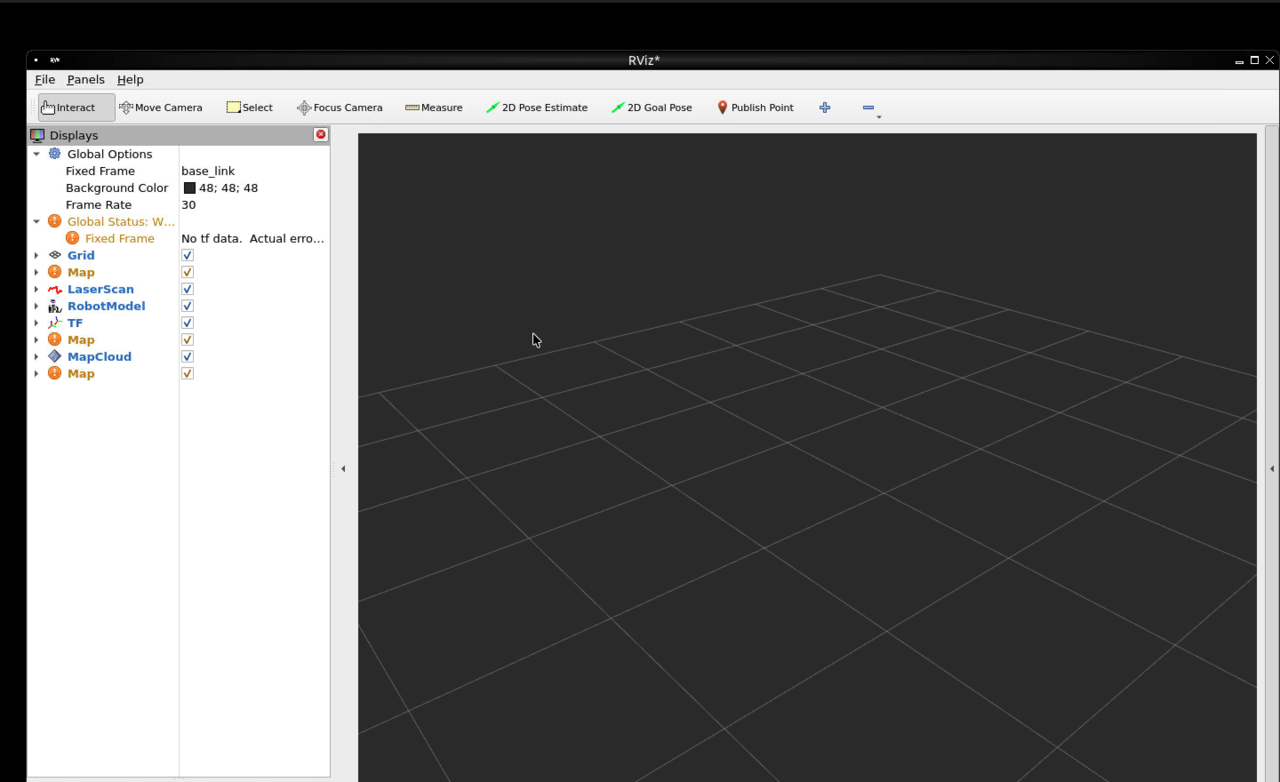
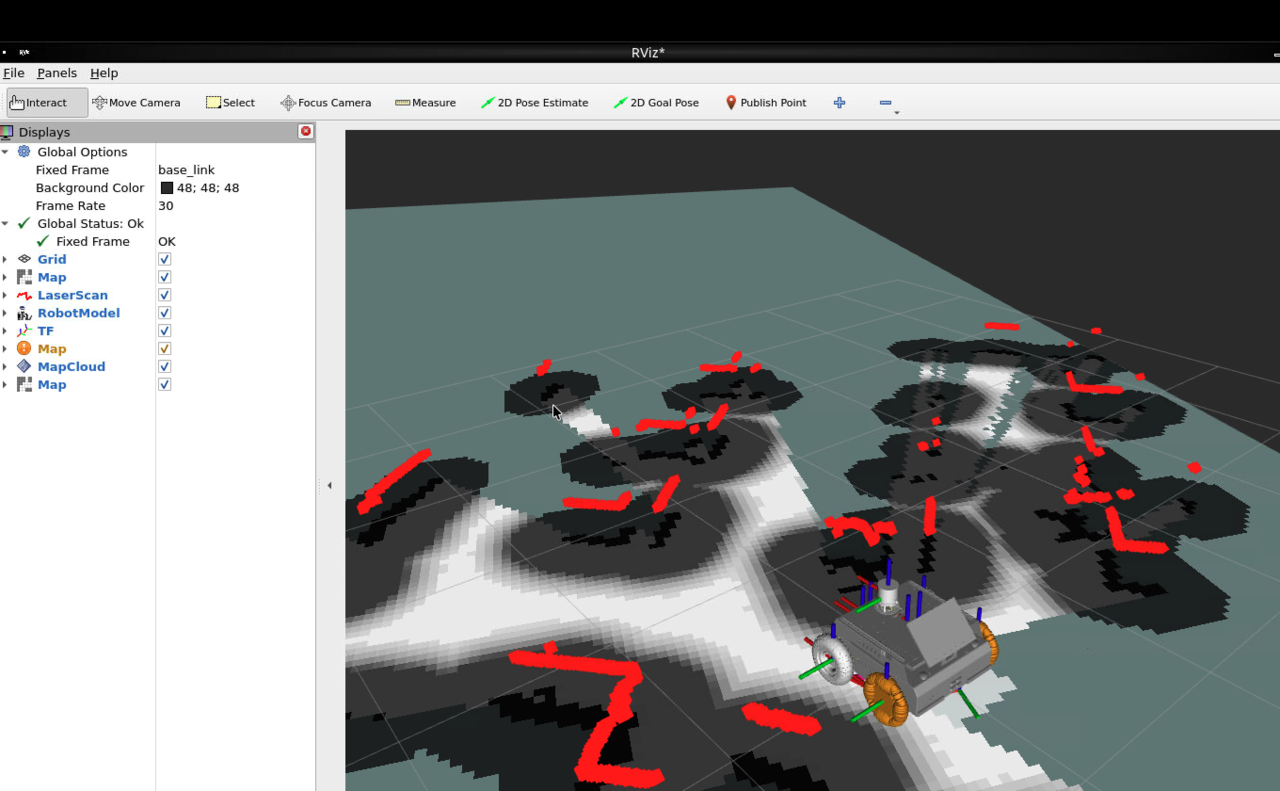
docs(readme): refine language switch and screenshots

diff --git a/README.md b/README.md
@@ -1,13 +1,274 @@
-# vnc-ros
+# vnc-ros | Jetson noVNC ROS 2 远程桌面
 
-<p align="center">
-  <a href="README.zh-CN.md"><img src="https://img.shields.io/badge/中文-打开文档-blue?style=for-the-badge" alt="中文"></a>
-  <a href="README.en.md"><img src="https://img.shields.io/badge/English-Open%20Docs-green?style=for-the-badge" alt="English"></a>
+<p align="left">
+  <a href="README.md"><img src="https://img.shields.io/badge/切换语言-简体中文-blue" alt="简体中文"></a>
+  <a href="README.en.md"><img src="https://img.shields.io/badge/Switch-English-blue" alt="English"></a>
 </p>
 
-<p align="center">
-  Jetson noVNC ROS 2 Desktop
-</p>
+`vnc-ros` 可以让用户在 **macOS、Windows、Linux** 的浏览器里查看和操作远程 Jetson 上的 ROS 2 图形工具，例如 `rviz2`、`rqt`、`rqt_graph`、`rqt_image_view` 和图形终端。
 
-![noVNC connect screen](docs/images/novnc-connect.png)
-![RViz2 in browser](docs/images/rviz2-browser.png)
+图形程序实际运行在 Jetson 上，本地电脑只接收 noVNC 网页画面，因此不需要 SSH X11 转发，也不需要在本地安装 ROS 2、RViz、rqt、Docker、XQuartz 或 VNC 客户端。
+
+![noVNC 连接页面](docs/images/novnc-connect.png)
+
+![浏览器中的 RViz2](docs/images/rviz2-browser.png)
+
+## 适合解决什么问题
+
+- 在 Mac Apple Silicon、Windows 或 Linux 电脑上通过浏览器查看 Jetson 的 RViz2、rqt 等 ROS 图形界面，避免 X11 转发卡顿。
+- 让使用者无需配置本地 ROS 环境，也能快速查看机器人状态、topic、tf、地图、点云等。
+- 通过 SSH 隧道访问 noVNC，默认不把 Jetson 的 noVNC 端口暴露给局域网。
+
+## 工作方式
+
+Jetson 上启动一个轻量虚拟桌面：
+
+- `Xvfb` 提供虚拟显示器
+- `fluxbox` 提供窗口管理器
+- `x11vnc` 把虚拟桌面变成 VNC
+- `websockify` / noVNC 把 VNC 变成浏览器页面
+- `rviz2`、`rqt` 等程序在 Jetson 本机运行
+
+默认安全模式下，noVNC 只监听 Jetson 的 `127.0.0.1`。本地电脑通过 SSH 隧道访问：
+
+```text
+本地浏览器 -> localhost:18080 -> SSH 隧道 -> Jetson 127.0.0.1:<NOVNC_PORT>
+```
+
+## Jetson 端要求
+
+- Ubuntu，并已安装 ROS 2，通常是 Ubuntu 22.04 + ROS 2 Humble
+- 已开启 SSH
+- 当前用户可以执行 `sudo apt-get`
+- 如果机器人有自定义消息或 launch 文件，需要知道工作区的 `install/setup.bash` 绝对路径
+
+## 本地电脑要求
+
+macOS / Linux / Windows 均可使用。
+
+本地电脑只需要：
+
+- 浏览器
+- `ssh` 命令
+- 能通过网络访问 Jetson
+
+Windows 用户可以使用 PowerShell 或 Windows Terminal。若系统没有 `ssh`，需要启用 OpenSSH Client。
+
+## 快速上手
+
+### 1. Jetson 第一次安装配置
+
+在 Jetson 上运行：
+
+```bash
+git clone -b ros2-humble https://github.com/lizuju/vnc-ros.git
+cd vnc-ros
+./scripts/setup-jetson-novnc-system.sh
+```
+
+安装脚本会自动：
+
+- 创建 `.env`
+- 询问 `ROS_DOMAIN_ID`
+- 询问机器人工作区 setup 文件路径，例如 `/home/<user>/<robot_ws>/install/setup.bash`
+- 自动推荐不常见且未占用的端口，通常从 `31880` 和 `31901` 开始找
+- 检查端口是否有效、是否被占用、两个端口是否冲突
+- 安装 noVNC、Xvfb、x11vnc、fluxbox、xterm 等依赖
+- 最后输出本地电脑需要执行的 SSH 隧道命令
+
+提示项说明：
+
+```text
+ROS_DOMAIN_ID:
+  填机器人 ROS 2 使用的 domain id。不确定时先用 0。
+
+Absolute robot workspace setup file:
+  如果机器人工作区需要 source，填写绝对路径。
+  例如 /home/<user>/<robot_ws>/install/setup.bash
+  不需要则直接回车。
+
+noVNC web port:
+  Jetson 上的 noVNC 网页端口。建议直接回车使用推荐值。
+
+Internal VNC backend port:
+  Jetson 内部 VNC 后端端口。建议直接回车使用推荐值。
+```
+
+### 2. Jetson 每次启动
+
+```bash
+cd ~/vnc-ros
+./scripts/start-jetson-novnc-system.sh
+```
+
+保持这个终端不要关闭。看到类似输出后说明 Jetson 端已启动：
+
+```text
+noVNC is listening on port 31880
+Secure mode is enabled. Use SSH tunnel, then open http://localhost:31880/vnc.html
+Press Ctrl+C here to stop it.
+```
+
+注意：这里的 `localhost:31880` 是 Jetson 自己的本地地址，不是你本地电脑的浏览器地址。本地电脑需要先开 SSH 隧道。
+
+### 3. 本地电脑打开 SSH 隧道
+
+在 macOS、Linux 或 Windows PowerShell 中运行：
+
+```bash
+ssh -N -L 18080:127.0.0.1:<NOVNC_PORT> <jetson-user>@<jetson-ip>
+```
+
+如果 setup 脚本输出的 `NOVNC_PORT` 是 `31880`，命令类似：
+
+```bash
+ssh -N -L 18080:127.0.0.1:31880 <jetson-user>@<jetson-ip>
+```
+
+输入 Jetson 密码后，终端停住是正常的。保持这个终端不要关闭。
+
+### 4. 浏览器访问
+
+打开：
+
+```text
+http://localhost:18080/vnc.html
+```
+
+点击 **Connect** 后即可进入 Jetson 图形桌面。
+
+## 常用命令
+
+在网页桌面的终端里运行：
+
+```bash
+ros2 topic list
+ros2 node list
+rviz2
+rqt
+rqt_graph
+rqt_image_view
+```
+
+这些命令都在 Jetson 上执行，图形窗口会显示在浏览器 noVNC 桌面里。
+
+## 端口说明
+
+SSH 隧道格式：
+
+```bash
+ssh -N -L 本地端口:127.0.0.1:Jetson端口 用户名@Jetson地址
+```
+
+例如：
+
+```bash
+ssh -N -L 18080:127.0.0.1:31880 <jetson-user>@<jetson-ip>
+```
+
+- `18080` 是本地电脑端口，浏览器打开 `localhost:18080`。
+- `31880` 是 Jetson noVNC 端口，由 setup 脚本写入 `.env` 的 `NOVNC_PORT`。
+- 两个端口都不是固定值。如果本地 `18080` 被占用，可以换成 `18081`。
+
+本地端口换成 `18081` 的例子：
+
+```bash
+ssh -N -L 18081:127.0.0.1:31880 <jetson-user>@<jetson-ip>
+```
+
+浏览器打开：
+
+```text
+http://localhost:18081/vnc.html
+```
+
+## 修改配置
+
+在 Jetson 上编辑 `.env`：
+
+```bash
+cd ~/vnc-ros
+nano .env
+```
+
+常见配置：
+
+```bash
+ROS_DOMAIN_ID=7
+JETSON_ROS_SETUP=/home/<user>/<robot_ws>/install/setup.bash
+NOVNC_LISTEN_HOST=127.0.0.1
+NOVNC_PORT=31880
+VNC_PORT=31901
+```
+
+修改后重启：
+
+```bash
+./scripts/start-jetson-novnc-system.sh
+```
+
+## 直接局域网访问
+
+默认不建议直接暴露 noVNC 到局域网。如果确实需要同一局域网用户直接打开 Jetson 地址，可以在 `.env` 中设置：
+
+```bash
+NOVNC_LISTEN_HOST=0.0.0.0
+```
+
+然后重启服务，浏览器打开：
+
+```text
+http://<jetson-ip>:<NOVNC_PORT>/vnc.html
+```
+
+注意：这样同一局域网中知道地址和端口的人都可能打开桌面。只在可信网络中使用。
+
+## 停止服务
+
+在运行 `start-jetson-novnc-system.sh` 的 Jetson 终端按：
+
+```text
+Ctrl+C
+```
+
+如果异常退出后端口仍被占用：
+
+```bash
+pkill -f websockify || true
+pkill -f x11vnc || true
+pkill -f Xvfb || true
+```
+
+## 常见问题
+
+页面打不开：
+
+```bash
+cd ~/vnc-ros
+ss -lntp | grep -E ':31880|:31901|:5900' || true
+tail -n 80 logs/novnc.log logs/x11vnc.log logs/xvfb.log
+```
+
+页面能打开但点击 Connect 失败：
+
+- 通常是后端 VNC 端口冲突
+- 修改 `.env` 里的 `VNC_PORT`
+- 重启 `./scripts/start-jetson-novnc-system.sh`
+
+`rviz2` 看不到机器人 topic：
+
+- 检查 `ROS_DOMAIN_ID` 是否和机器人一致
+- 检查 `JETSON_ROS_SETUP` 是否指向正确工作区
+- 在网页终端里运行 `ros2 topic list`
+
+本地 `ssh -L` 提示 `Address already in use`：
+
+- 换一个本地端口，例如从 `18080` 改成 `18081`
+- 浏览器也对应打开 `http://localhost:18081/vnc.html`
+
+## 相关文档
+
+- [QUICKSTART.md](QUICKSTART.md)
+- [LOCAL_TUNNEL.md](LOCAL_TUNNEL.md)
+- [JETSON_NOVNC.md](JETSON_NOVNC.md)
+- [DISTRIBUTING_JETSON_NOVNC.md](DISTRIBUTING_JETSON_NOVNC.md)

diff --git a/README.en.md b/README.en.md
@@ -1,6 +1,9 @@
 # vnc-ros | Jetson noVNC ROS 2 Desktop
 
-[中文](README.zh-CN.md)
+<p align="left">
+  <a href="README.md"><img src="https://img.shields.io/badge/切换语言-简体中文-blue" alt="简体中文"></a>
+  <a href="README.en.md"><img src="https://img.shields.io/badge/Switch-English-blue" alt="English"></a>
+</p>
 
 `vnc-ros` lets users view and operate ROS 2 GUI tools running on a remote Jetson from a browser on **macOS, Windows, or Linux**. It is designed for tools such as `rviz2`, `rqt`, `rqt_graph`, `rqt_image_view`, and a graphical Jetson terminal.
 
@@ -12,8 +15,7 @@ The GUI applications run on the Jetson. The local computer only receives a brows
 
 ## What This Helps With
 
-- View Jetson RViz2 / rqt from an Apple Silicon Mac without X11 forwarding.
-- Use the same browser workflow from Windows or Linux.
+- View Jetson RViz2, rqt, and other ROS GUI tools through a browser on Apple Silicon Mac, Windows, or Linux while avoiding slow X11 forwarding.
 - Let users inspect robot state, topics, tf, maps, point clouds, and GUI tools without installing ROS locally.
 - Access noVNC through an SSH tunnel by default, so the Jetson noVNC port is not exposed directly to the LAN.
 

diff --git a/README.zh-CN.md b/README.zh-CN.md
@@ -1,6 +1,9 @@
 # vnc-ros | Jetson noVNC ROS 2 远程桌面
 
-[English](README.en.md)
+<p align="left">
+  <a href="README.md"><img src="https://img.shields.io/badge/切换语言-简体中文-blue" alt="简体中文"></a>
+  <a href="README.en.md"><img src="https://img.shields.io/badge/Switch-English-blue" alt="English"></a>
+</p>
 
 `vnc-ros` 可以让用户在 **macOS、Windows、Linux** 的浏览器里查看和操作远程 Jetson 上的 ROS 2 图形工具，例如 `rviz2`、`rqt`、`rqt_graph`、`rqt_image_view` 和图形终端。
 
@@ -12,8 +15,7 @@
 
 ## 适合解决什么问题
 
-- 在 Mac Apple Silicon 上查看 Jetson 的 RViz2 / rqt，避免 X11 转发卡顿。
-- 在 Windows 或 Linux 电脑上用浏览器查看 Jetson 的 ROS 图形界面。
+- 在 Mac Apple Silicon、Windows 或 Linux 电脑上通过浏览器查看 Jetson 的 RViz2、rqt 等 ROS 图形界面，避免 X11 转发卡顿。
 - 让使用者无需配置本地 ROS 环境，也能快速查看机器人状态、topic、tf、地图、点云等。
 - 通过 SSH 隧道访问 noVNC，默认不把 Jetson 的 noVNC 端口暴露给局域网。
 
